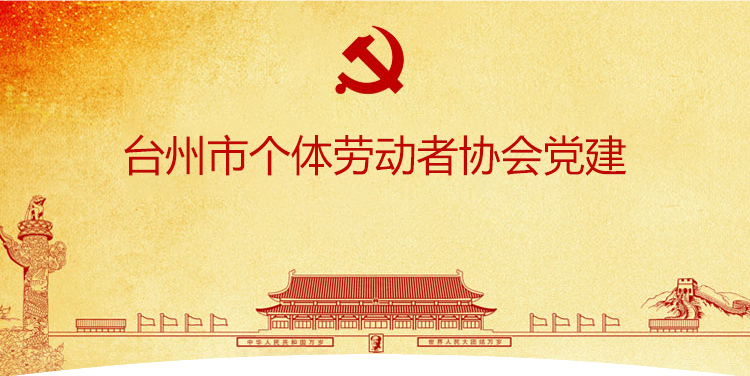
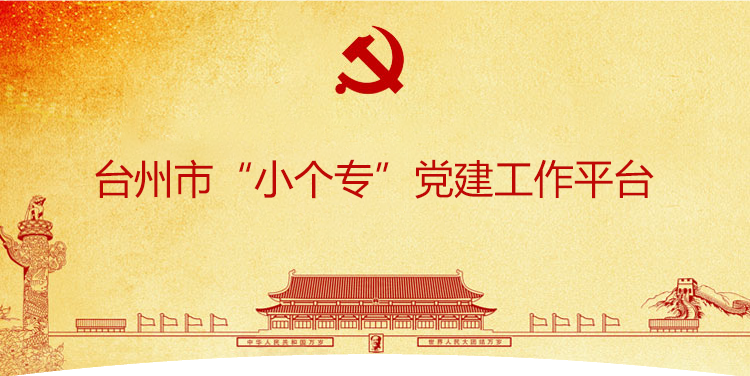
首页修改

Changed region(s): [[0.1227, 0.3511, 0.8893, 0.5266]]

diff --git a/application/home/view/index/index.html b/application/home/view/index/index.html
@@ -1,7 +1,7 @@
 {extend name="public/pure"}
 
 {block name="style"}
-    <title>台州个协</title>
+    <title>台州市“小个专”党建工作平台</title>
     <link rel="stylesheet" href="/home/css/common/rem.css">
     <link rel="stylesheet" href="/home/css/index/index.css">
     <link rel="stylesheet" href="/static/swiper/swiper-3.3.1.min.css">
@@ -51,28 +51,28 @@
 			<span>党建动态</span>
 		</a>
 	</li>
-	<li>
-		<a href="{:Url('Constitution/game?c=1')}">
-			<img src="/home/images/index/3.png" alt="网上党校">
-			<span>党课在线</span>
-		</a>
-	</li>
+    <li>
+        <a href="{:Url('Learn/index')}">
+            <img src="/home/images/index/9.png" alt="党建风采">
+            <span>党建风采</span>
+        </a>
+    </li>
 	<li>
 		<a href="{:Url('Company/index?c=1')}">
 			<img src="/home/images/index/5.png" alt="党员之家">
 			<span>党员之家</span>
 		</a>
 	</li>
+    <li>
+        <a href="{:Url('Constitution/game?c=1')}">
+            <img src="/home/images/index/3.png" alt="网上党校">
+            <span>党课在线</span>
+        </a>
+    </li>
 	<li>
 		<a href="{:Url('Notice/index?c=1')}">
 			<img src="/home/images/index/1.png" alt="通知公告">
 			<span>通知公告</span>
-		</a>
-	</li>
-	<li>
-		<a href="{:Url('Learn/index')}">
-			<img src="/home/images/index/9.png" alt="党建风采">
-			<span>党建风采</span>
 		</a>
 	</li>
 	<li>
